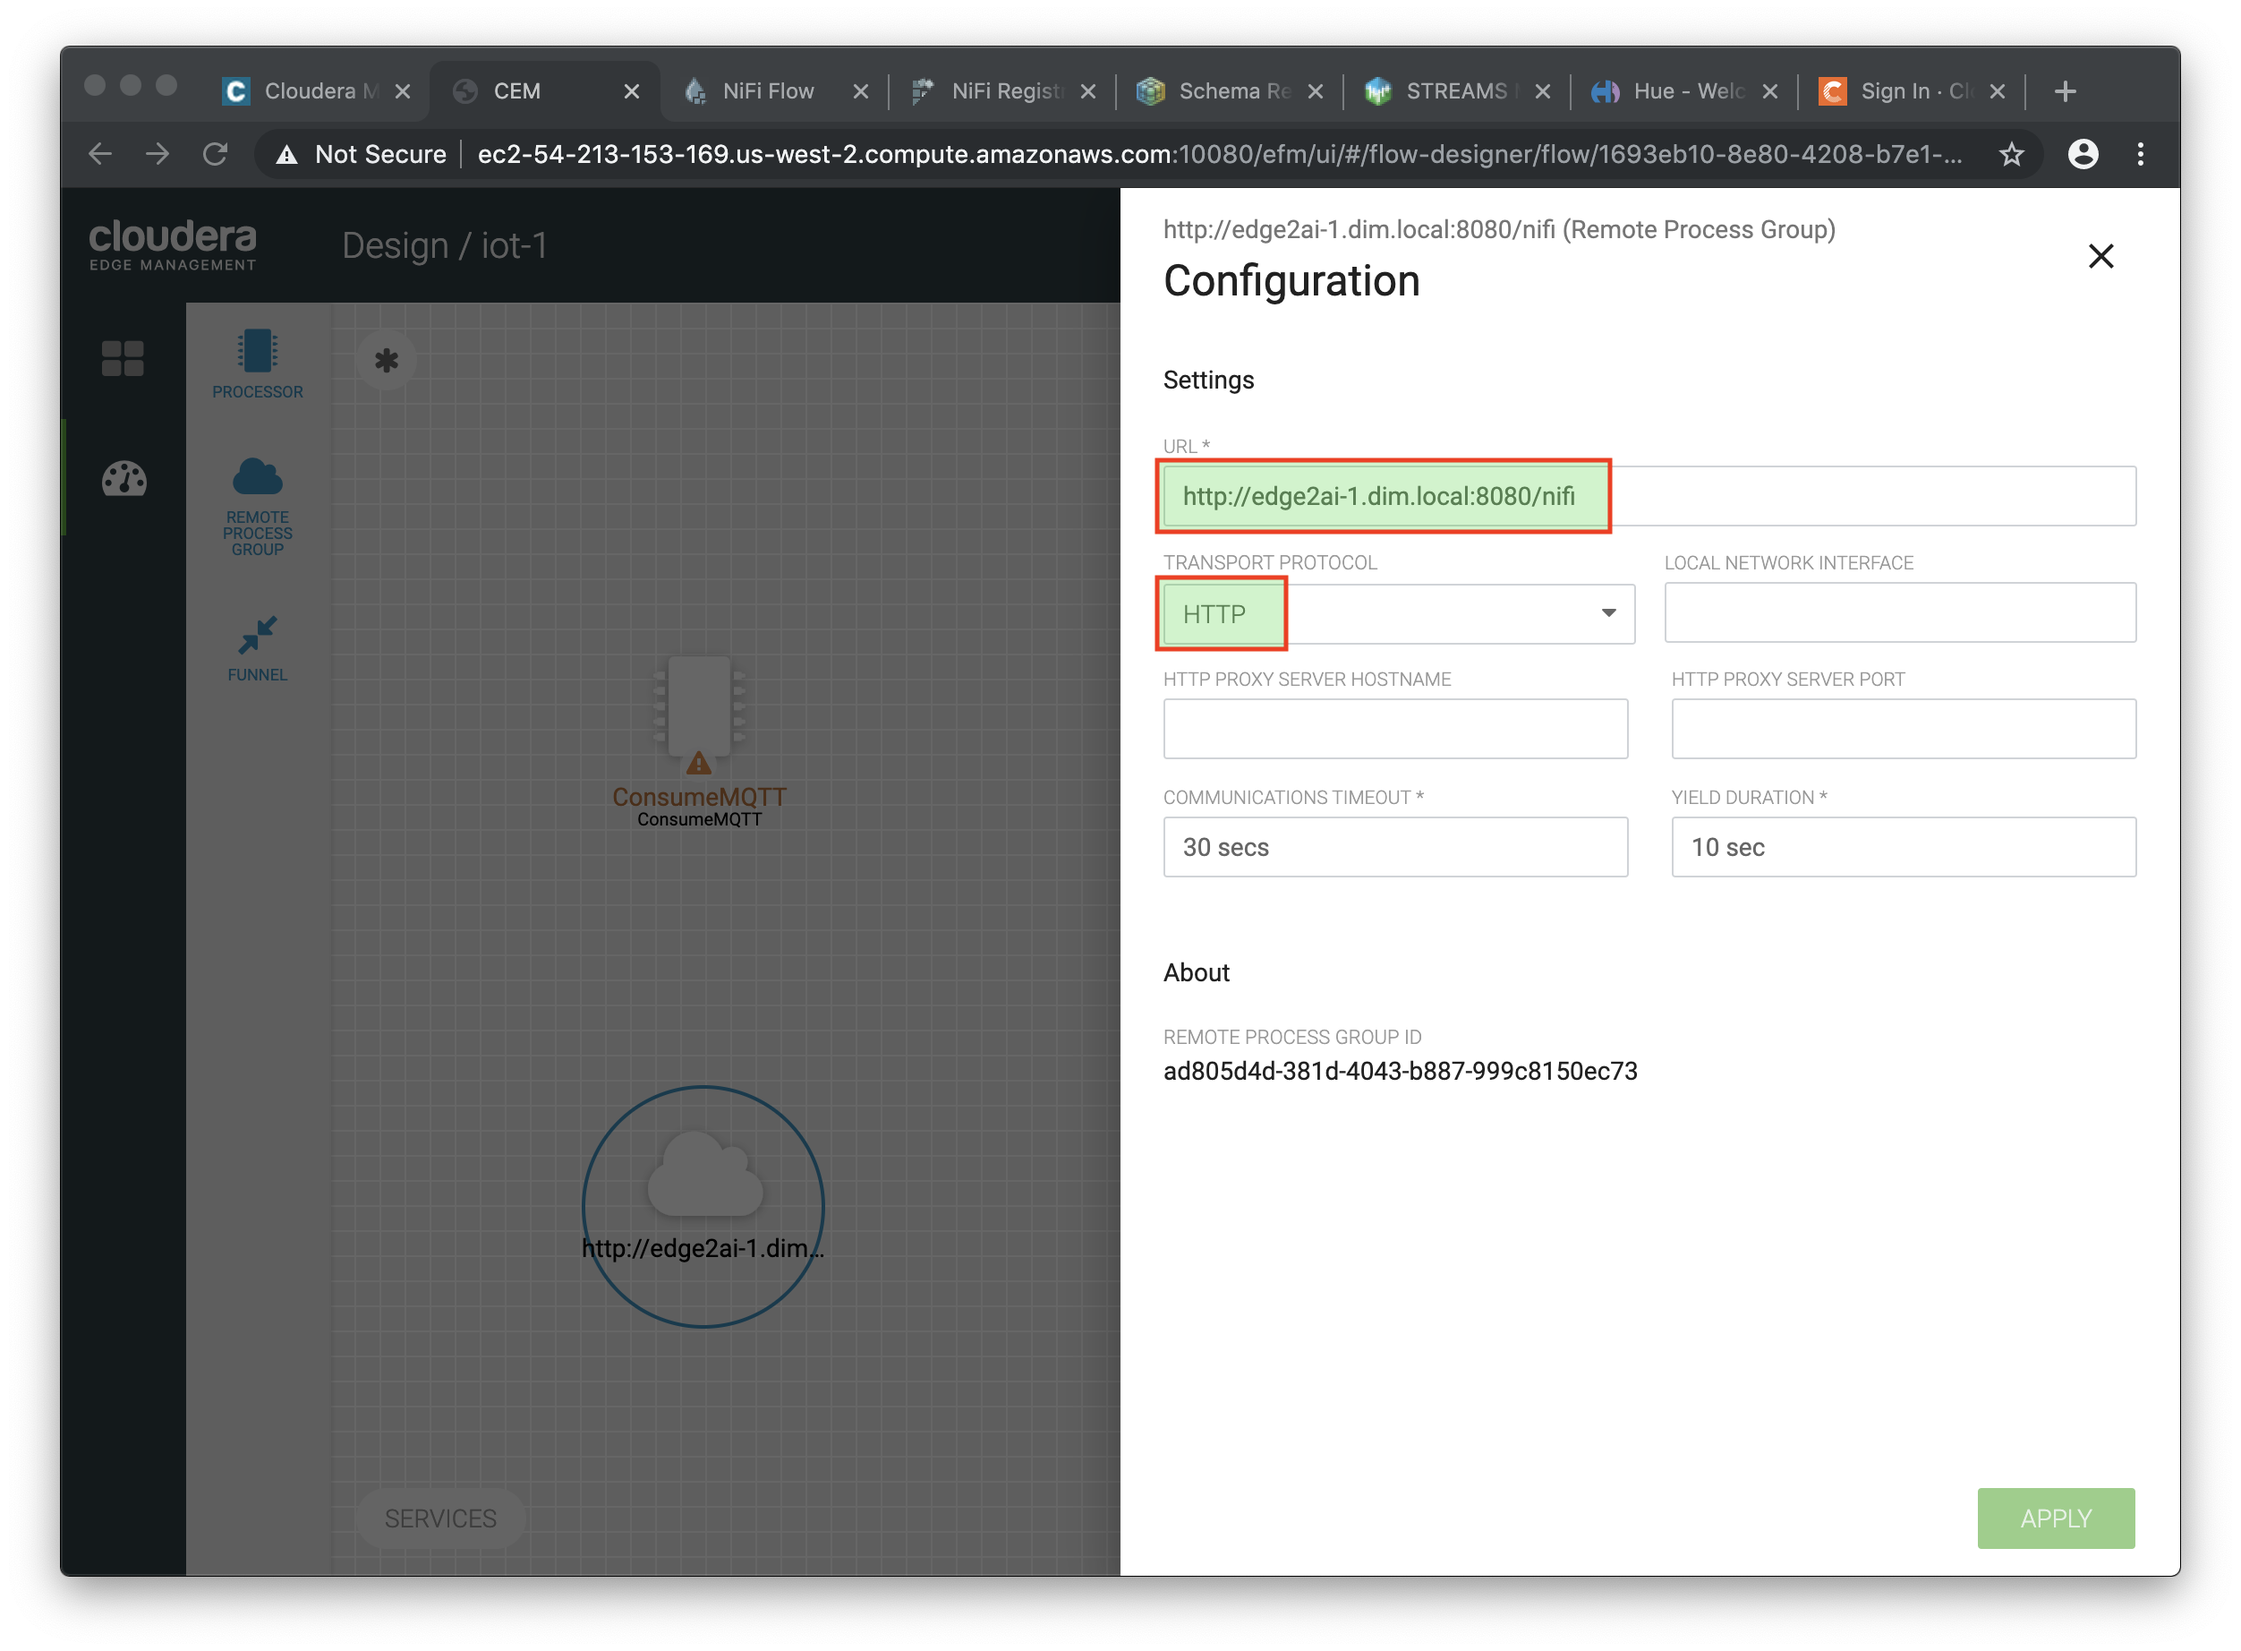
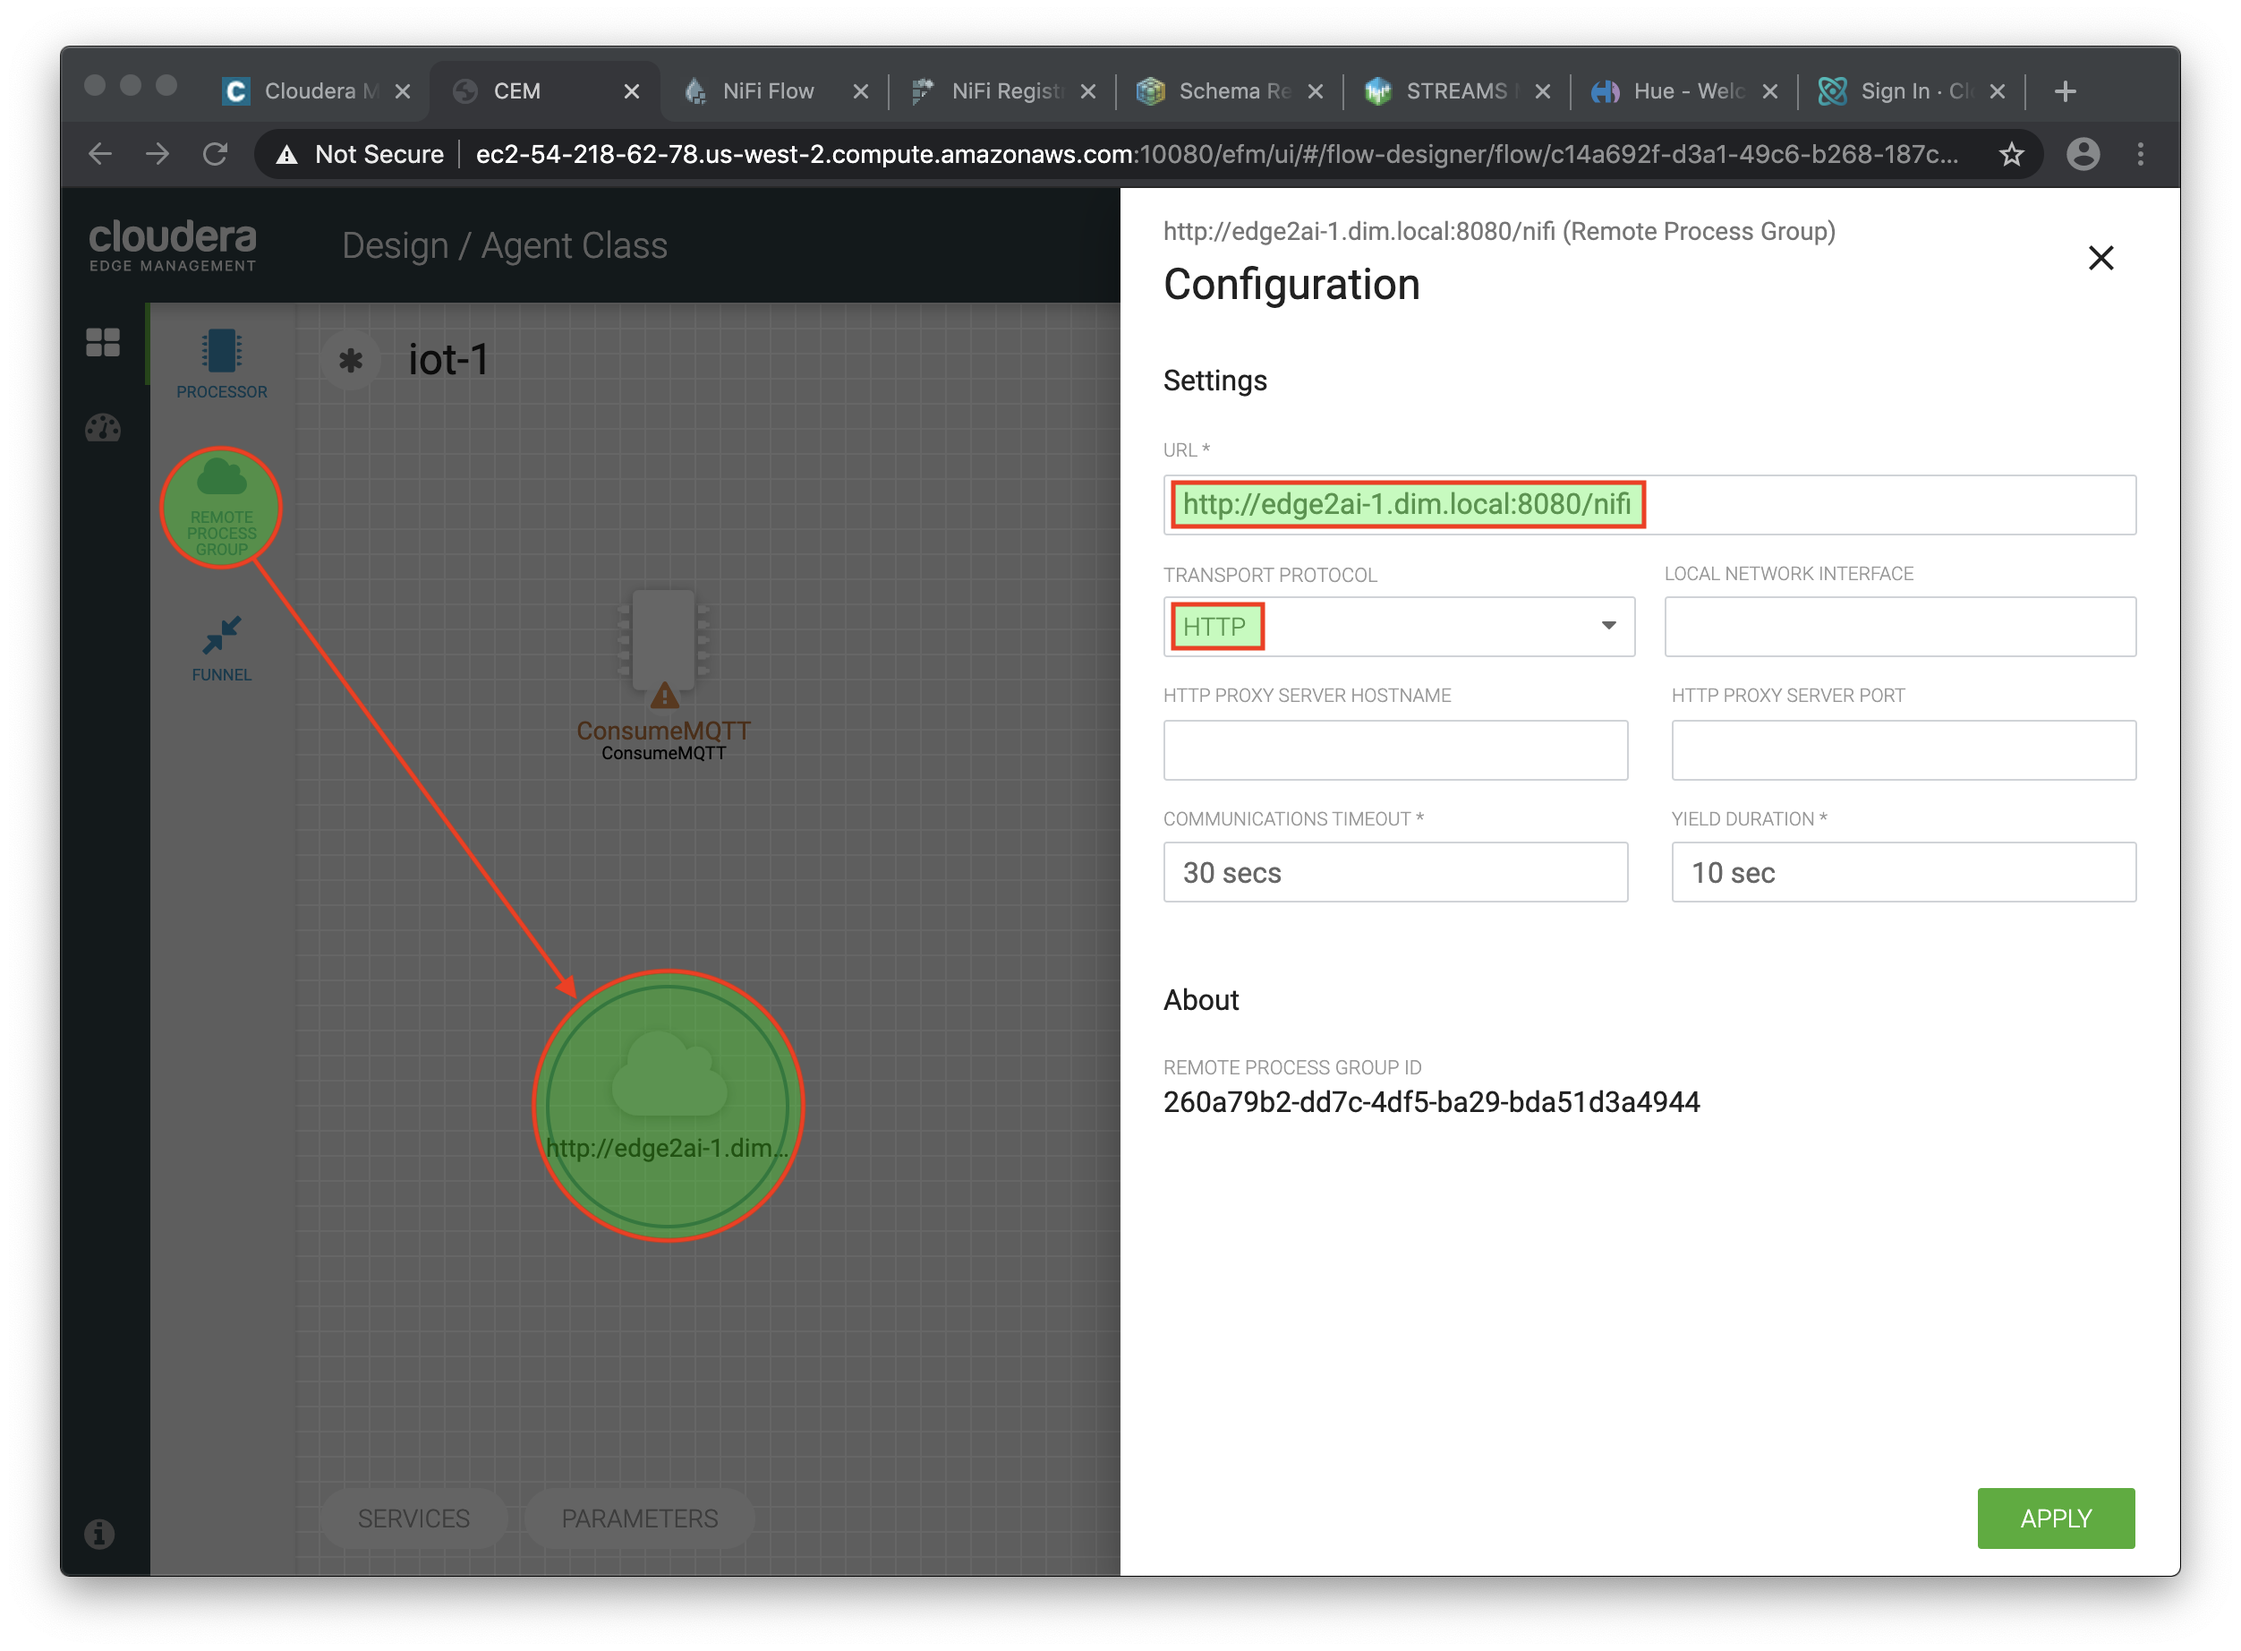
Reviewed and update streaming lab content

diff --git a/setup/terraform/resources/utils.py b/setup/terraform/resources/utils.py
@@ -131,6 +131,10 @@ def get_cdsw_altus_api():
     return 'http://cdsw.%s.nip.io/api/altus-ds-1' % (get_public_ip(),)
 
 
+def get_model_endpoint():
+    return 'http://modelservice.cdsw.%s.nip.io/model' % (get_public_ip(),)
+
+
 def get_cdsw_model_access_key():
     def _open_cdsw_session():
         s = requests.Session()
@@ -383,7 +387,8 @@ def efm_delete_all(flow_id):
             efm_delete_by_type(flow_id, conn, obj_type)
 
 
-def efm_create_connection(flow_id, pg_id, source_id, source_type, destination_id, destination_type, relationships, source_port=None, destination_port=None):
+def efm_create_connection(flow_id, pg_id, source_id, source_type, destination_id, destination_type, relationships, source_port=None, destination_port=None,
+                          name=None, flow_file_expiration=None):
     def _get_endpoint(endpoint_id, endpoint_type, endpoint_port):
         if endpoint_type == 'PROCESSOR':
             return {'id': endpoint_id, 'type': 'PROCESSOR'}
@@ -402,6 +407,10 @@ def efm_create_connection(flow_id, pg_id, source_id, source_type, destination_id
         'source': _get_endpoint(source_id, source_type, source_port),
         'destination': _get_endpoint(destination_id, destination_type, destination_port),
         'selectedRelationships': relationships,
+        'name': name,
+        'flowFileExpiration': flow_file_expiration,
+        'backPressureObjectThreshold': None,
+        'backPressureDataSizeThreshold': None,
       }
     }
     resp = efm_api_post(endpoint, requests.codes.created, headers={'Content-Type': 'application/json'}, json=body)
@@ -681,7 +690,7 @@ def lab2_edge_flow(env):
             'Max Queue Size': '60',
         })
     env.nifi_rpg = efm_create_remote_processor_group(env.flow_id, env.efm_pg_id, 'Remote PG', _NIFI_URL, 'HTTP', (100, 400))
-    env.consume_conn = efm_create_connection(env.flow_id, env.efm_pg_id, env.consume_mqtt, 'PROCESSOR', env.nifi_rpg, 'REMOTE_INPUT_PORT', ['Message'], destination_port=env.from_gw.id)
+    env.consume_conn = efm_create_connection(env.flow_id, env.efm_pg_id, env.consume_mqtt, 'PROCESSOR', env.nifi_rpg, 'REMOTE_INPUT_PORT', ['Message'], destination_port=env.from_gw.id, name='Sensor data', flow_file_expiration='60 seconds')
 
     # Create a bucket in NiFi Registry to save the edge flow versions
     if not versioning.get_registry_bucket('IoT'):
@@ -782,9 +791,9 @@ def lab6_expand_edge_flow(env):
         },
         auto_terminate=['error'])
     efm_delete_by_type(env.flow_id, env.consume_conn, 'connections')
-    env.consume_conn = efm_create_connection(env.flow_id, env.efm_pg_id, env.consume_mqtt, 'PROCESSOR', extract_proc, 'PROCESSOR', ['Message'])
-    extract_conn = efm_create_connection(env.flow_id, env.efm_pg_id, extract_proc, 'PROCESSOR', filter_proc, 'PROCESSOR', ['matched'])
-    filter_conn = efm_create_connection(env.flow_id, env.efm_pg_id, filter_proc, 'PROCESSOR', env.nifi_rpg, 'REMOTE_INPUT_PORT', ['unmatched'], destination_port=env.from_gw.id)
+    env.consume_conn = efm_create_connection(env.flow_id, env.efm_pg_id, env.consume_mqtt, 'PROCESSOR', extract_proc, 'PROCESSOR', ['Message'], name='Sensor data', flow_file_expiration='60 seconds')
+    extract_conn = efm_create_connection(env.flow_id, env.efm_pg_id, extract_proc, 'PROCESSOR', filter_proc, 'PROCESSOR', ['matched'], name='Extracted attributes', flow_file_expiration='60 seconds')
+    filter_conn = efm_create_connection(env.flow_id, env.efm_pg_id, filter_proc, 'PROCESSOR', env.nifi_rpg, 'REMOTE_INPUT_PORT', ['unmatched'], destination_port=env.from_gw.id, name='Valid data', flow_file_expiration='60 seconds')
 
     # Publish/version flow
     efm_publish_flow(env.flow_id, 'Second version - ' + str(env.run_id))
@@ -800,7 +809,7 @@ def lab7_rest_and_kudu(env):
                                                     name='JsonTreeReader - With schema identifier')
     rest_lookup_svc = create_controller(env.sensor_pg,
                                         'org.apache.nifi.lookup.RestLookupService',
-                                        {'rest-lookup-url': get_cdsw_altus_api() + '/models/call-model', 'rest-lookup-record-reader': env.json_reader_svc.id, 'rest-lookup-record-path': '/response'},
+                                        {'rest-lookup-url': get_model_endpoint(), 'rest-lookup-record-reader': env.json_reader_svc.id, 'rest-lookup-record-path': '/response'},
                                         True)
 
     # Build flow
